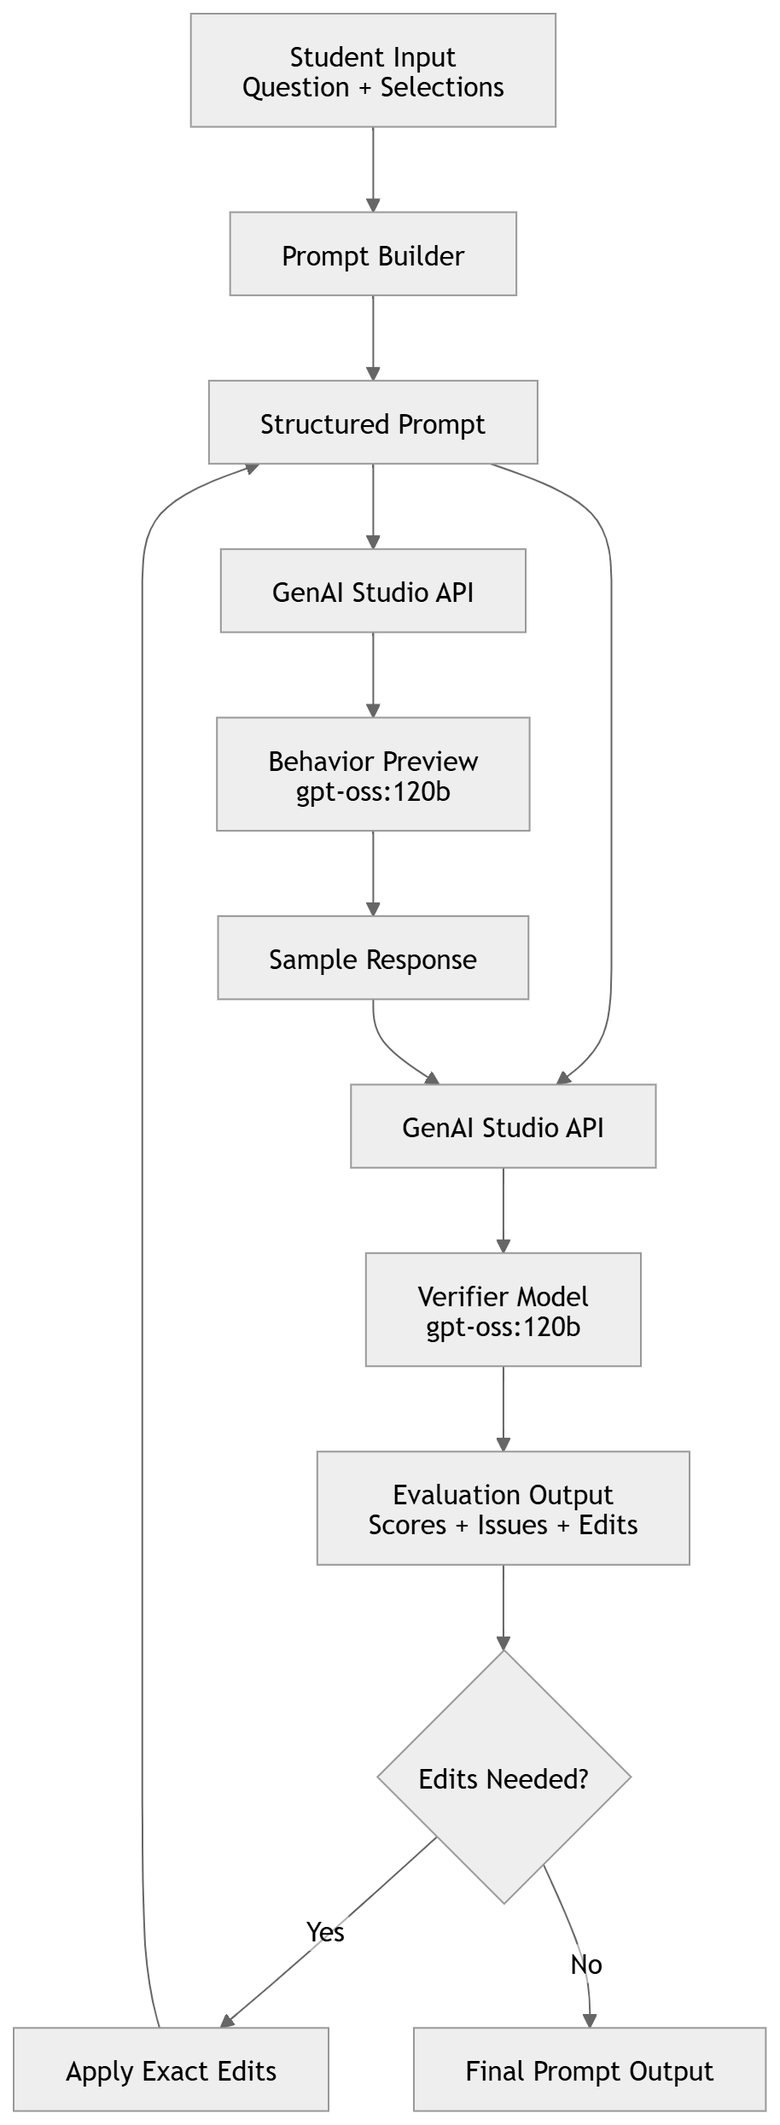
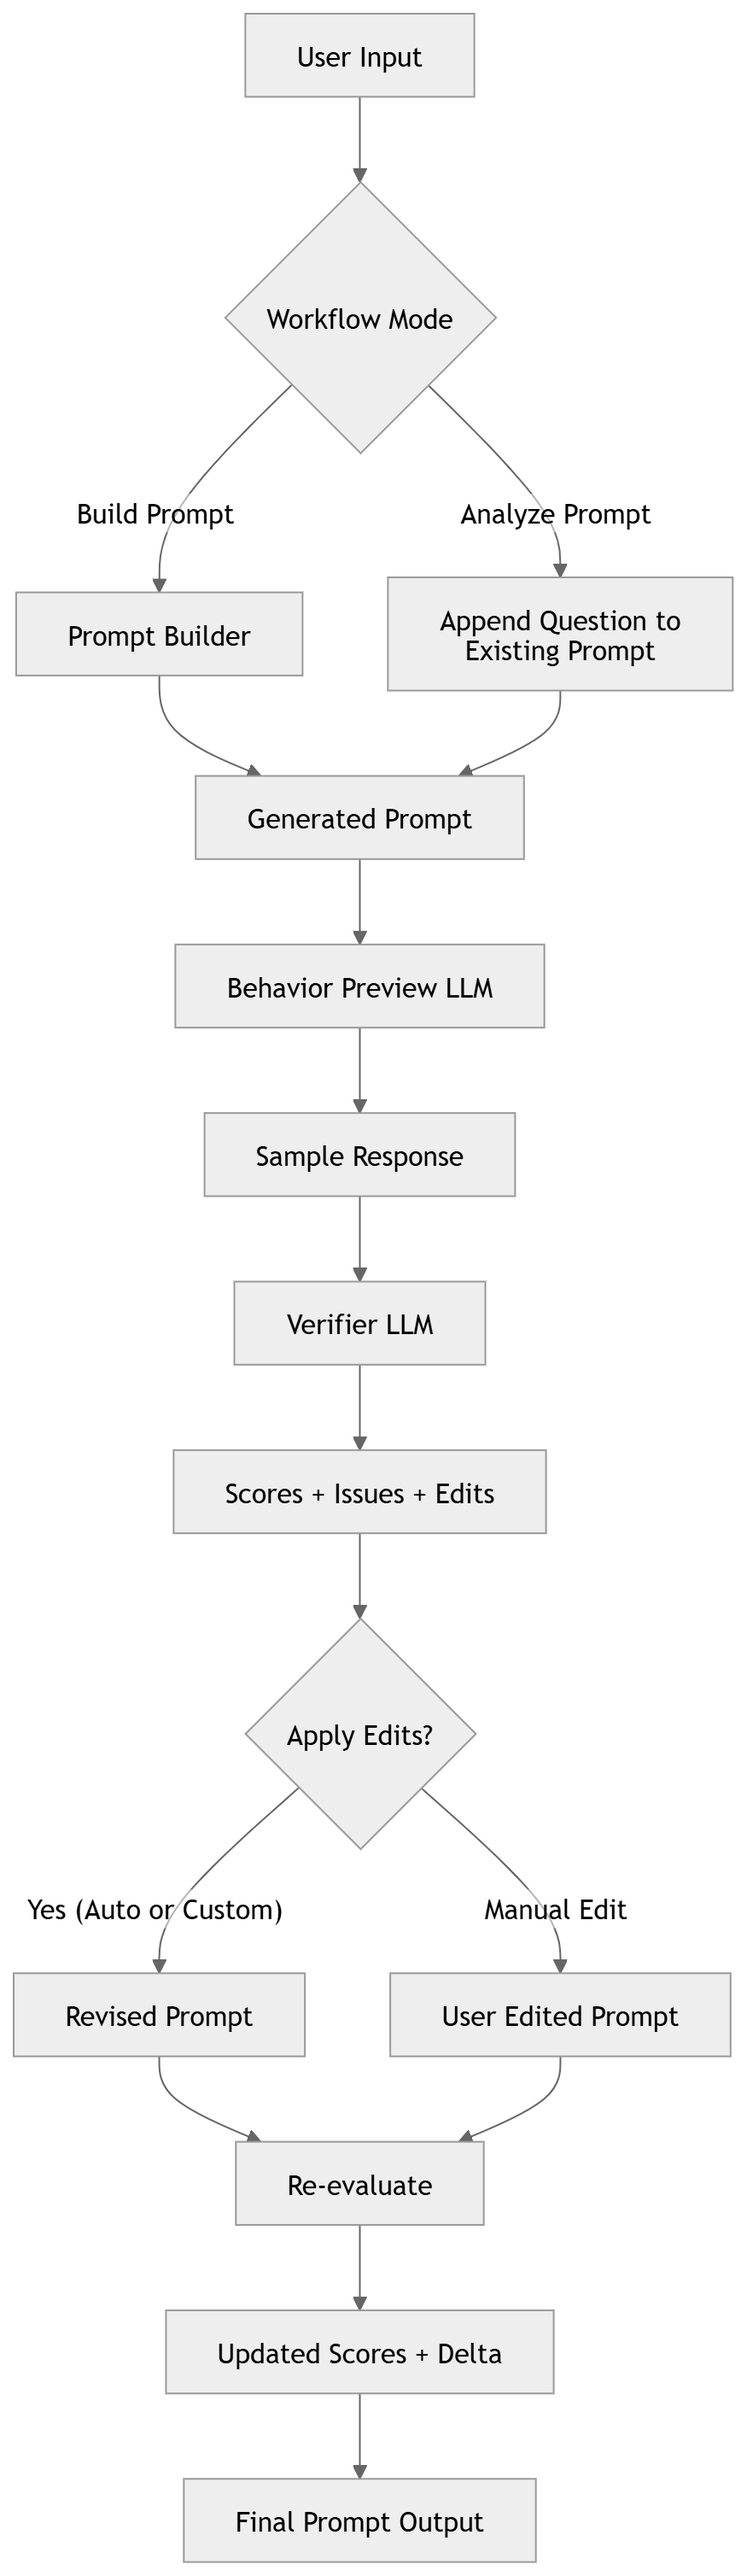
Update README.md and workflow images.

diff --git a/README.md b/README.md
@@ -18,18 +18,24 @@
 
 PromptBeaver is a prompt engineering tool designed for **undergraduate students studying Computer Science (CS), Data Science (DS), and/or Artificial Intelligence (AI)**.
 
-It does **not generate answers or solve homework problems**. Instead, it produces a **high-quality, copy-paste-ready prompt** that students can use in **any LLM of their choice** (e.g., ChatGPT, Claude) to receive **clear, structured, conceptual explanations**.
+It does **not generate answers or solve homework problems**. Instead, it helps users **build, analyze, and refine prompts** that guide LLMs toward clear, structured, conceptual explanations.
+
+PromptBeaver supports two core workflows:
+
+- **Build a Prompt** → Generate a structured, high-quality prompt from guided inputs  
+- **Analyze My Prompt** → Evaluate and improve an existing prompt with real model behavior  
+
+In both workflows, the **student’s question is always automatically included inside the final prompt**, ensuring the LLM responds directly to the intended question.
 
 PromptBeaver helps students:
 
 - Formulate **precise prompts** that clearly express conceptual questions  
 - Guide LLMs toward **teaching and explanation**, not solution generation  
 - Avoid prompts that lead to **answer leakage or homework completion**  
-- Create a **single prompt that initiates a full, high-quality learning interaction**  
+- Evaluate prompts using **LLM-based scoring and behavior previews**  
+- Iteratively improve prompts through **suggested edits and revision tools**  
 
-The result is a **refined prompt (not an answer)**that enables students to engage with LLMs in a way similar to **TA or professor office hours**.
-
-By making prompt engineering **explicit, structured, and learnable**, PromptBeaver empowers students to become more independent and effective learners.
+The result is a **refined prompt (not an answer)** that enables students to engage with LLMs in a way similar to **TA or professor office hours**.
 
 ---
 
@@ -44,25 +50,44 @@ PromptBeaver is aligned with core undergraduate CS/DS/AI coursework:
 
 These courses guide both **concept selection and prompt structure**, ensuring prompts remain focused on conceptual mastery rather than solution generation.
 
----
+--- 
 
-## 🧠 User Input Interface
+## 🔁 User Interfaces
+Users can either **build a new prompt** or **analyze an existing one**.
 
+
+| Mode | Description |
+|------|------------|
+| **Build a Prompt** | Generate a structured prompt using guided selections |
+| **Analyze My Prompt** | Paste an existing prompt and evaluate how it behaves |
+
+In both modes:
+- The **student’s question is automatically appended**
+- The system evaluates how well the prompt **guides model behavior**
+
+### Build a Prompt
 <p align="center">
-  <img src="assets/dashboard_input.png" alt="Dashboard Input UI" width="500"/>
+  <img src="assets/build_prompt_interface.png" alt="Dashboard Input UI" width="700"/>
 </p>
 
-Users configure a prompt by selecting instructional behavior, conceptual focus, and learning intent.
+### Analyze My Prompt 
+<p align="center">
+  <img src="assets/analyze_prompt_interface.png" alt="Dashboard Input UI" width="700"/>
+</p>
+
+---
 
 ### Required Inputs
 
 | Input | Description | Example Options |
 |------|------------|----------------|
-| **Interaction Mode** | Determines how the LLM teaches and responds | Socratic Coach, Guided Tutor |
-| **Question Intent** | Defines the goal of the explanation | Clarify a Concept, Walk Through an Example |
-| **General Concept** | Broad subject area (based on course) | Object-Oriented Programming |
-| **Specific Concept** | Targeted subtopic within the domain | Hash Tables, Classification |
+| **Interaction Mode** | Determines how the LLM teaches and responds | Socratic Coach, Guided Tutor, Expert Explainer, Simulated Novice Learner |
+| **Question Intent** | Defines the goal of the explanation | Clarify a Concept, Walk Through an Example, Check My Reasoning |
+| **General Concept** | Broad subject area (based on course) | Data Structures & Algorithms |
+| **Specific Concept** | Targeted subtopic within the domain | Hash Tables, Graphs |
 | **User Question** | Conceptual question (≤150 words) | “Why is hash table lookup O(1) on average?” |
+
+---
 
 ### Optional Inputs
 
@@ -70,19 +95,42 @@ Users configure a prompt by selecting instructional behavior, conceptual focus, 
 |------|------------|
 | **Supporting Materials** | Lecture slides, notes, or external context to ground the response |
 
-### ✏ Output
+---
 
-PromptBeaver outputs a **fully structured prompt** that:
+### ✏ Output + Customization
 
-- Can be **copied and pasted into any LLM**
-- Is optimized for **conceptual understanding (not answers)**
-- Encourages **step-by-step explanation and guided reasoning**
-- Initiates a **complete learning interaction from a single prompt**
+PromptBeaver outputs a **fully structured prompt**, along with:
 
-It does **not** generate:
-- Homework solutions  
-- Completed code  
-- Direct answers to assignments  
+- ✅ **Behavior preview** (first-turn model response)  
+- ✅ **Evaluation scores** (alignment, clarity, constraints, accuracy)  
+- ✅ **Concrete suggested edits** to improve the prompt  
+- ✅ **Automatic or customizable revision options**  
+- ✅ **Manual prompt editing with re-evaluation**  
+
+Users can:
+
+- Apply all suggested edits  
+- Customize edits before applying  
+- Manually rewrite the full prompt  
+- Re-run evaluation instantly  
+- Track improvements using **score deltas (↑ / ↓ / →)**  
+
+---
+
+## 🔍 Prompt Evaluation Metrics
+
+Prompts are evaluated using an LLM-based verifier across four dimensions:
+
+- **Alignment** – Matches selected mode, intent, and concept  
+- **Clarity** – Clear and easy for the model to follow  
+- **Constraint Adherence** – Enforces rules (e.g., no direct answers)  
+- **Accuracy** – Response is instructionally correct  
+
+Each metric is scored from **1–5**, and revisions track:
+
+- **↑ Improvement (green)**  
+- **↓ Decrease (red)**  
+- **→ No change (neutral)**  
 
 ---
 
@@ -95,22 +143,54 @@ It does **not** generate:
 ### Pipeline Overview
 
 1. **Prompt Construction**
-   - Structured template built from user inputs
+   - Build mode: structured prompt generated from selections  
+   - Analyze mode: user prompt + question automatically combined  
 
 2. **LLM Behavior Preview**
-   - API call to GenAI Studio using primary model
-   - Simulates real response
+   - Simulates a **single-turn response**
 
 3. **Evaluation (LLM-as-Judge)**
-   - Second API call evaluates response quality using initial prompt
+   - Scores prompt + response across key metrics  
 
-4. **Scoring + Feedback**
-   - Metrics computed and feedback generated
+4. **Feedback + Suggested Edits**
+   - Returns structured issues and exact prompt edits  
 
-5. **Auto-Revision**
-   - Prompt updated and re-evaluated
+5. **Revision Engine**
+   - Applies edits directly or allows customization  
+
+6. **Re-evaluation + Delta Tracking**
+   - Displays score improvements (↑) or decreases (↓)
 
 ---
+
+## ⚙ Model & Deployment Details
+
+PromptBeaver is deployed as a live web application using **Streamlit Cloud**, with all LLM interactions powered through **Purdue GenAI Studio**.
+
+### Model Configuration
+
+- **Primary Model:** `gpt-oss-120b`
+- **Backup Model:** `llama4:latest`
+
+### Usage in Pipeline
+
+- The **primary model (`gpt-oss-120b`)** is used for:
+  - Behavior preview (simulated response)
+  - Prompt evaluation (LLM-as-judge)
+
+- The **backup model (`llama4:latest`)** is used when:
+  - The primary model is unavailable
+  - A generation request fails or times out
+
+### Deployment Stack
+
+- **Frontend + Application Layer:** Streamlit (hosted via Streamlit Cloud)
+- **LLM Infrastructure:** Purdue GenAI Studio API
+- **Pipeline Execution:** Python-based prompt construction, evaluation, and revision loop
+
+All model calls are integrated directly into the **prompt → response → evaluation → revision loop** described above.
+
+--- 
 
 ## 🗂 Repository Structure
 
@@ -121,24 +201,26 @@ PromptBeaver/
 ├── verifier.py             # LLM-as-judge evaluation + scoring
 ├── assets/
 │   ├── prompt_beaver_mascot.png
-│   ├── dashboard_input.png
+│   ├── analyze_prompt_interface.png
+    ├── build_prompt_interface.png 
 │   └── mermaid-diagram.png
 ├── requirements.txt
 └── README.md
 ```
-
 ---
 
 ## 🤖 AI Disclosure
 
 AI tools were used **only** for:
+
 - Boilerplate code generation  
 - Debugging assistance  
 - UI refinement  
 - Initial documentation generation  
 
 Human-driven:
-- Project design   
+
+- Project design  
 - Evaluation metrics  
 - System pipeline  
 - Final edits  
